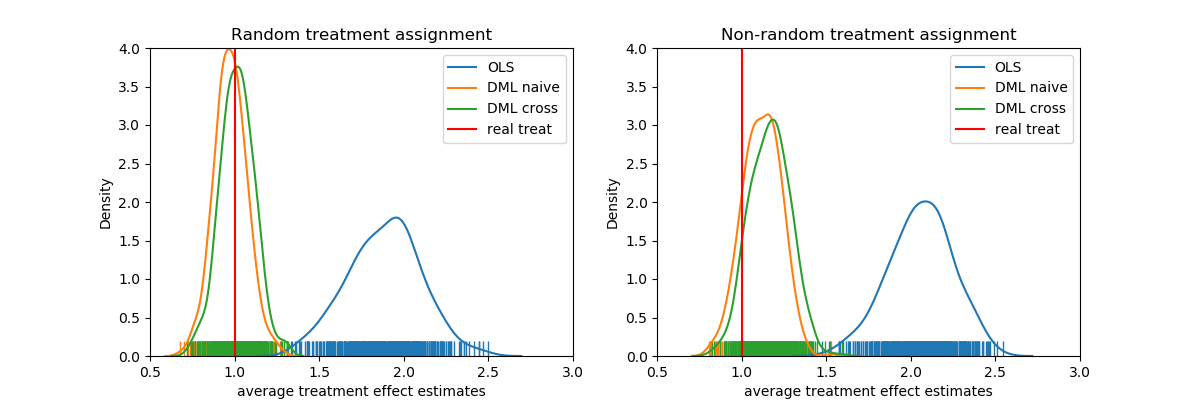
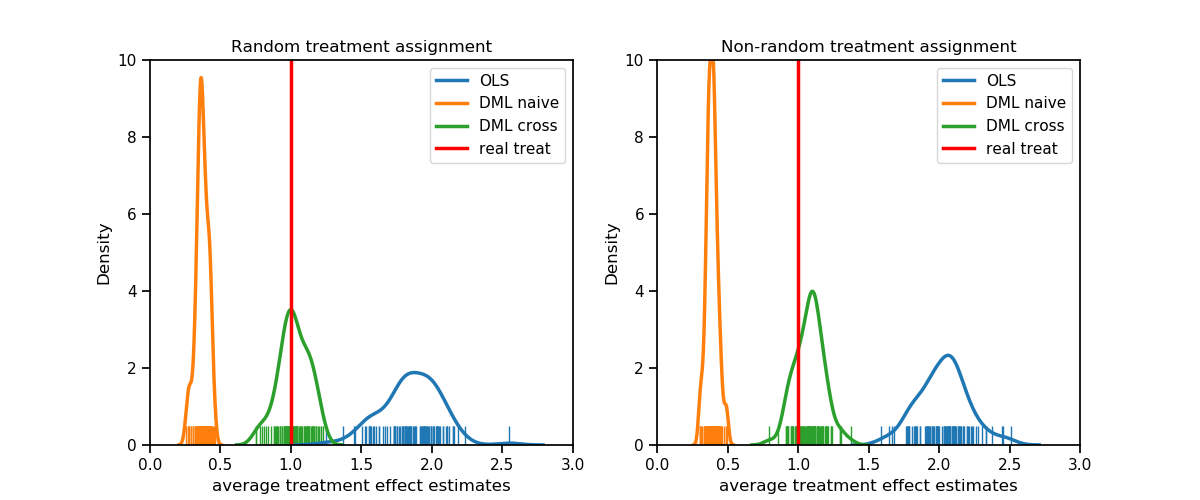
changed dml plot, adjusted text

diff --git a/content/research/applied_predictive_modeling_19/data_generating_process_blogpost.html b/content/research/applied_predictive_modeling_19/data_generating_process_blogpost.html
@@ -92,7 +92,7 @@ scientific approaches.</p>
 <div class="cell border-box-sizing text_cell rendered"><div class="prompt input_prompt">
 </div><div class="inner_cell">
 <div class="text_cell_render border-box-sizing rendered_html">
-<h3 id="General-Model:-Partial-Linear-Regression">General Model: Partial Linear Regression<a class="anchor-link" href="#General-Model:-Partial-Linear-Regression">&#182;</a></h3><p>The model that our package is based on is a partial linear regression model as it is described in Chernozhukov et al. (2016). It consists of the covariates X that are possibly non-linear in relation to y, the treatment term consisting the treatment effect and the treatment assginment vector and an normally distributed error term.</p>
+<h3 id="General-Model:-Partial-Linear-Regression">General Model: Partial Linear Regression<a class="anchor-link" href="#General-Model:-Partial-Linear-Regression">&#182;</a></h3><p>The model that our package is based on is a partial linear regression model as it is described in Chernozhukov et al. (2016). It consists of the covariates X that are possibly non-linear in relation to y, the treatment term consisting of the treatment effect and the treatment assignment vector, and a normally distributed error term.</p>
 <p><br/></p>
 $$ \begin{align} Y = \theta_0  D + g_0(X)+ U,  &amp;&amp;  &amp; E[U|X,D] = 0 \\ 
    D = m_0(X) + V, &amp;&amp;   &amp;  E[V|X] = 0 \\
@@ -116,7 +116,8 @@ $$ X_{n*k} \sim N_k(0,\Sigma)$$<p>Where,</p>
 <script src="https://gist.github.com/Tobias-K93/f550c942f3ceea379271c9d89913fac7.js"></script><p>The following heat-map shows an example of Sigma with k=10 covariates. Depending on the chosen random seed, typically correlations range between -0.7 and 0.7 with slightly varying minimum and maximum values.</p>
 <p><img align="center" width="660" height="500" style="display:block;margin:0 auto;" src="/blog/img/seminar/data_generating_process/covariates_correlation.png"></p>
 <h4 id="Binary-and-categorical-covariates">Binary and categorical covariates<a class="anchor-link" href="#Binary-and-categorical-covariates">&#182;</a></h4><p>Binary and categorical covariates are created by transforming the continuous covariates $X$. Depending on what option is chosen, the package simulates all covariates or a subset of $X$ as binary and/or categorical. The covariates are transformed by min-max-standardization to obtain prediction values. These values are then used to either obtain binary realizations from a Bernoulli distribution or categorical covariates by summing up the realizations of several Bernoulli draws.</p>
-$$ p_{j} = \frac{x(j) - min(x(j))}{max(x(j)) - min(x(j))} $$$$ x_{binary}(j) = Bernoulli\left( p_{j} \right) $$$$ x_{categorical}(j) = \sum_{c=1}^{C-1} Bernoulli_c \left( p_{j} \right) $$<p>$x(j) \in X = covariate\; vector, \quad C = number\; of\; categories$</p>
+$$ p_{j} = \frac{x(j) - min(x(j))}{max(x(j)) - min(x(j))} $$$$ x_{binary}(j) = Bernoulli\left( p_{j} \right) $$$$ x_{categorical}(j) = \sum_{c=1}^{C-1} Bernoulli_c \left( p_{j} \right) $$<p>Where,</p>
+<p>$x(j) \in X = covariate\; vector, \quad j \in \{1,...,k\}, \quad C = number\; of\; categories $</p>
 <p><br/></p>
 <p>The following code serves as an example of how binary and categorical covariates are implemented. In this example, the user chooses how many covariates are transformed and gives a list of categories that should be included, e.g. [2,5] for binary and categorical variables with 5 categories.</p>
 <script src="https://gist.github.com/Tobias-K93/c9d325e584421595ed1b012fe090d6fc.js"></script>
@@ -147,7 +148,7 @@ $. These effects are: Positive constant, negative constant , positive heterogene
 <h4 id="Positive-&amp;-negative-constant-effect">Positive &amp; negative constant effect<a class="anchor-link" href="#Positive-&amp;-negative-constant-effect">&#182;</a></h4><p>In the case of a constant effect, treatment is the same for each individual and, thus, is just a constant $c$. Depending on the chosen sign either positive or negative.</p>
 <p><strong>Option 1</strong> positive constant: $$ \theta_0 = c $$</p>
 <p><strong>Option 2</strong> negative constant: $$\theta_0 = - \; c$$</p>
-<h4 id="Positive-&amp;-negative-continuous-heterogeneous-effect">Positive &amp; negative continuous heterogeneous effect<a class="anchor-link" href="#Positive-&amp;-negative-continuous-heterogeneous-effect">&#182;</a></h4><p>In contrast to the constant effect, for which each observation has the same treatment effect, the continuous heterogeneous effect differs between individuals within a specified interval. Moreover, depends the size of the individual treatment effect on a subset Z of the covariates X. The creation of this treatment effect begins similar to the treatment assignment with taking the dot product of the subset $Z$ and the same weight vector used in the treatment assignment $b$. The result is put into a sinus function and added an normally distributed error term $W$. The result $\gamma$ is then min-max-standardized and adjusted in size with a constant $c$. Note that eventually the size of treatment depends on the intensity chosen which will be explained later on in the application part. In case that the heterogeneous effect is supposed to be partly or entirely negative, the resulting distribution is shifted by the respective quantile value $q_{neg}$ that corresponds to the wanted negative percentage share.</p>
+<h4 id="Positive-&amp;-negative-continuous-heterogeneous-effect">Positive &amp; negative continuous heterogeneous effect<a class="anchor-link" href="#Positive-&amp;-negative-continuous-heterogeneous-effect">&#182;</a></h4><p>In contrast to the constant effect, for which each observation has the same treatment effect, the continuous heterogeneous effect differs between individuals within a specified interval. Moreover, depends the size of the individual treatment effect on a subset Z of the covariates X. The creation of this treatment effect begins similar to the treatment assignment with taking the dot product of the subset $Z$ and the same weight vector used in the treatment assignment $b$. The result is put into a sinus function and a normally distributed error term $W$ is added. The result $\gamma$ is then min-max-standardized and adjusted in size with a constant $c$. Note that eventually the size of treatment depends on the intensity chosen which will be explained later on in the <em>Package application</em> part. In case that the heterogeneous effect is supposed to be partly or entirely negative, the resulting distribution is shifted by the respective quantile value $q_{neg}$ that corresponds to the wanted negative percentage share.</p>
 <p><br/></p>
 $$\gamma =  sin(Z * b) + W$$$$\theta_0 = \frac{\gamma - min(\gamma)}{max(\gamma) - min(\gamma)}*c - q_{neg}$$<p>Where,</p>
 <p>$Z \subseteq X,\quad  b_{k*1} \stackrel{ind.}{\sim} U(0,1), \quad W \stackrel{ind.}{\sim} N(0,1), \quad q_{neg} \in [0,c], \quad c = size \; adjustment \; parameter$</p>
@@ -155,7 +156,7 @@ $$\gamma =  sin(Z * b) + W$$$$\theta_0 = \frac{\gamma - min(\gamma)}{max(\gamma)
 <script src="https://gist.github.com/Tobias-K93/80c8db186625da23d99caebf1bbfc913.js"></script><p>The following histogram shows an example where 30% of the continuous heterogeneous treatment effect is negative and 70% is positive.</p>
 <p><img align="center" width="500" height="400" style="display:block;margin:0 auto;" src="/blog/img/seminar/data_generating_process/pos_neg_heterogeneous_treatment_effect.png"></p>
 <h4 id="No-effect">No effect<a class="anchor-link" href="#No-effect">&#182;</a></h4><p>This option allows that there are cases of treatment assignment that show no effect, i.e. $\theta_0$ is simply 0.</p>
-$$\theta_0 = 0$$<h4 id="Discrete-heterogeneous-treatment-effect">Discrete heterogeneous treatment effect<a class="anchor-link" href="#Discrete-heterogeneous-treatment-effect">&#182;</a></h4><p>The discrete heterogeneous treatment effect is created in a similar manner as the continuous version. The scalar product of a subset of the covariates is put into a sinus function and the result is min-max-standardized to serve as probability. In another step, those probabilities are used to draw values from a Bernoulli distribution, where 0's are exchanged with the lower value and 1's with the higher value of the new treatment effect. The resulting treatment effect depends then on at least a subset of the covariates.</p>
+$$\theta_0 = 0$$<h4 id="Discrete-heterogeneous-treatment-effect">Discrete heterogeneous treatment effect<a class="anchor-link" href="#Discrete-heterogeneous-treatment-effect">&#182;</a></h4><p>The discrete heterogeneous treatment effect is created in a similar manner as the continuous version. The scalar product of a subset of the covariates is put into a sinus function and the result is min-max-standardized to serve as probability. In another step, those probabilities are used to draw values from a Bernoulli distribution, where 0's are exchanged with the lower value and 1's with the higher value of the new treatment effect. The resulting treatment effect depends then on a subset of covariates.</p>
 $$\gamma =  sin(Z * b)$$$$ p_{dh} = \frac{\gamma - min(\gamma)}{max(\gamma) - min(\gamma)}$$$$ \theta_0 \sim Bernoulli(p_{dh}), \; \theta_0 \in \{0.1*c , 0.2*c\}$$
 </div>
 </div>
@@ -163,7 +164,7 @@ $$\gamma =  sin(Z * b)$$$$ p_{dh} = \frac{\gamma - min(\gamma)}{max(\gamma) - mi
 <div class="cell border-box-sizing text_cell rendered"><div class="prompt input_prompt">
 </div><div class="inner_cell">
 <div class="text_cell_render border-box-sizing rendered_html">
-<h3 id="Output-variable">Output variable<a class="anchor-link" href="#Output-variable">&#182;</a></h3><h4 id="Continuous">Continuous<a class="anchor-link" href="#Continuous">&#182;</a></h4><p>The continuous output variable $Y$ comprises of three main parts. The treatment part $\theta_0 D $ as explained above, the possibly non-linearly transformed covariates $X$, and the error term $U$. The transformation $g_0()$ consists of two parts. First, the scalar product of $X$ and the weighting vector $b$ is taken. The values of $b$ are drawn from an uneven beta distribution which assures that a few covariates impact the outcome much more than others which seems more realistic than e.g. a uniformly distributed impact. Second, there is either no further transformation, i.e. the relation is linear, a partial non-linear transformation which consists of a linear and non-linear part, or an entirely non-linear transformation. Moreover, the package offers an option to add interaction terms of the form $x_i*x_j$ that are drawn randomly out of $X$ and added into $g_0()$. The number of interaction terms $I$ is set to $\sqrt{k}$ as a default and can be adjusted if wanted.</p>
+<h3 id="Output-variable">Output variable<a class="anchor-link" href="#Output-variable">&#182;</a></h3><h4 id="Continuous">Continuous<a class="anchor-link" href="#Continuous">&#182;</a></h4><p>The continuous output variable $Y$ comprises of three main parts. The treatment part $\theta_0 D $ as explained above, the possibly non-linearly transformed covariates $X$, and the error term $U$. The transformation $g_0()$ consists of two parts. First, the dot product of $X$ and the weighting vector $b$ is taken. The values of $b$ are drawn from an uneven beta distribution which assures that a few covariates impact the outcome much more than others which seems more realistic than e.g. a uniformly distributed impact. Second, there is either no further transformation, i.e. the relation is linear, a partial non-linear transformation which consists of a linear and non-linear part, or an entirely non-linear transformation. Moreover, the package offers an option to add interaction terms of the form $x_i*x_j$ that are drawn randomly out of $X$ and added into $g_0()$. The number of interaction terms $I$ is set to $\sqrt{k}$ as a default and can be adjusted if wanted.</p>
 <p><br/></p>
 $$ Y = \theta_0  D + g_0(X)+ U, \quad E[U|X,D] = 0$$<p>where,</p>
 <p>$g_0(x) \in  \{x, \; \; 2.5*cos(x)^3 + 0.5*x, \; \; 3*cos(x)^3\}, \qquad x \in \{X_{n*k}*b_{k*1}, \quad X_{n*k}*b_{k*1} + X_{in,n*I}*b_{in,I*1} \},$</p>
@@ -189,18 +190,20 @@ $$ p_{n*1} = \frac{\delta - min(\delta)}{max(\delta) - min(\delta)}*0.8 + 0.1 + 
 <div class="cell border-box-sizing text_cell rendered"><div class="prompt input_prompt">
 </div><div class="inner_cell">
 <div class="text_cell_render border-box-sizing rendered_html">
-<h2 id="Package-application">Package application<a class="anchor-link" href="#Package-application">&#182;</a></h2><p>The package is applied by simply importing the <code>UserInterface</code>, initializing it, and using the two main methods <code>generate_treatment</code> and <code>output_data</code> as shown in the code below. The only required parameters the user has to choose are the number of observations N and the number of covariates k. All other parameters have default values that can be changed if needed. The following code gives all necessary lines to create a dataset and has all default values listed.</p>
+<h2 id="Package-application">Package application<a class="anchor-link" href="#Package-application">&#182;</a></h2><p><code>opossum</code> can be used by either downloading the Github repository <a href="https://github.com/jgitr/opossum">https://github.com/jgitr/opossum</a> and using the opossum directory as working directory or by simply installing it with the following command from the console:</p>
+<p><code>pip install opossum</code></p>
+<p>The package is applied by simply importing the <code>UserInterface</code>, initializing it, and using the two main methods <code>generate_treatment</code> and <code>output_data</code> as shown in the code below. The only required parameters the user has to choose are the number of observations N and the number of covariates k. All other parameters have default values that can be changed if needed. The following code gives all necessary lines to create a dataset and has all default values listed. How values can be adjusted will be explained in the following sections.</p>
 <script src="https://gist.github.com/Tobias-K93/72319f8e5b96190d1fdadbe1a1cedd59.js"></script><h3 id="Choosing-covariates">Choosing covariates<a class="anchor-link" href="#Choosing-covariates">&#182;</a></h3><p>As a default, covariates are continuous. However, one can change that with the <code>categorical_covariates</code> parameter. It allows to make either all or a chosen number of covariates binary and/or categorical. Depending on how covariates should be transformed there are three options. Option one is to simply give an integer $i$ which then transforms the whole dataset into variables with i categories, e.g. $i$ = 2 makes all covariates binary. Option two is a list with two integers $[z,i]$, where the first one $z$ is the number of variables that are transformed, and the second one $i$ is again the number of categories, e.g. <code>[5,2]</code> generates 5 of all k covariates as binary variables. Option three is again a list but this time contains an integer and a list $[z,[i_1,..i_C]]$. As before, the first integer $z$ gives the number of covariates that are transformed, whereas the integers in the list $[i_1,...i_C]$ give the different frequencies of categories that are then equally common among the transformed covariates. As an example, <code>[10,[2,3,5]]</code> would lead to 10 transformed covariates of which four would be binary and three would have 3 and 5 categories respectively.</p>
-<script src="https://gist.github.com/Tobias-K93/02d7c3b424f19a894fcbab69775247e8.js"></script><h3 id="Creating-treatment-effects">Creating treatment effects<a class="anchor-link" href="#Creating-treatment-effects">&#182;</a></h3><p>The <code>generate_treatment()</code> function has two main purposes. Assigning treatment and generating the chosen treatment effects. As a default treatment is assigned randomly as in a random control trial, i.e. the <code>random_assignment</code> boolean parameter is set to <code>True</code>. Setting it to <code>False</code> makes treatment depending on a subset of covariates, simulating an observational study. The size of this subset is set to k/2 by default but can be adjusted with the function <code>set_subset_z_size_assignment()</code> that is further explained under the point Other functions below. The other parameter concerning assignment is <code>assignment_prob</code> which affects the average probability of treatment assignment, determining how many observations end up being treated. In the case of random assignment, parameter values can be freely chosen from the interval (0,1), however, when assignment is not random one has to choose between the three levels <code>'low'</code>, <code>'medium'</code>, and <code>'high'</code> which represent average probability values of 0.35, 0.5, and 0.65 respectively.</p>
+<script src="https://gist.github.com/Tobias-K93/02d7c3b424f19a894fcbab69775247e8.js"></script><h3 id="Creating-treatment-effects">Creating treatment effects<a class="anchor-link" href="#Creating-treatment-effects">&#182;</a></h3><p>The <code>generate_treatment()</code> function has two main purposes. Assigning treatment and generating the chosen treatment effects. As a default treatment is assigned randomly as in a random control trial, i.e. the <code>random_assignment</code> boolean parameter is set to <code>True</code>. Setting it to <code>False</code> makes treatment depending on a subset of covariates, simulating an observational study. The size of this subset is set to k/2 by default but can be adjusted with the function <code>set_subset_z_size_assignment()</code> that is further explained under the point <em>Other functions</em> below. The other parameter concerning assignment is <code>assignment_prob</code> which affects the average probability of treatment assignment, determining how many observations end up being treated. In the case of random assignment, parameter values can be freely chosen from the interval (0,1), however, when assignment is not random one has to choose between the three levels <code>'low'</code>, <code>'medium'</code>, and <code>'high'</code> which represent average probability values of 0.35, 0.5, and 0.65 respectively.</p>
 <p>Regarding the creation of treatment effects there are two ways on how to choose which kind of effects should be simulated. Either by setting the wanted parameters to <code>True</code> and unwanted to <code>False</code>, where the default is <code>constant_pos=True</code> and all other options False, or by passing a list of length 6 to <code>treatment_option_weights</code> containing the wanted percentages of treatment effect options that sum up to 1. If the first way, using booleans, is chosen then the frequency of each selected option is the same. This option is the easiest way to use when just one kind of effect is wanted. The second option, passing a list, offers a better way of customizing the wanted mix of treatment effects. Each value in the list corresponds to a kind of treatment effect the following way <code>[constant_pos, constant_neg, heterogeneous_pos, heterogeneous_neg, no_treatment, discrete_heterogeneous]</code>, e.g. <code>[0, 0, 0.8, 0.2, 0, 0]</code> generates 20% negative heterogeneous treatment and 80% positive heterogeneous treatment.</p>
 <p>The following code shows the application of the above discussed parameters. All parameters that are not shown are automatically set to their default values.</p>
-<script src="https://gist.github.com/Tobias-K93/c07617c63231c9e0a76886ac49d273a9.js"></script><p>The intensity parameter adjusts the size of treatment effects. It takes floats of the interval [1,10] which determine the magnitude of the treatment effects the following way:</p>
+<script src="https://gist.github.com/Tobias-K93/c07617c63231c9e0a76886ac49d273a9.js"></script><p>The intensity parameter adjusts the size of treatment effects. It takes a float from the interval [1,10] which determines the magnitude of the treatment effects the following way:</p>
 <ul>
 <li>$constant: \; intensity*0.2$, </li>
 <li>$heterogeneous: \; [0, intensity*0.4]$, </li>
 <li>$discrete\_heterogeneous: \{intensity*0.1, intensity*0.2\}$</li>
 </ul>
-<p>The interactive plot bellow shows different resulting magnitudes of the treatment effect as part of the outcome variable y in form of a kernal density estimation. Change the intensity value to see how it affects the outcome distributions of treated and not treated observations!</p>
+<p>The interactive plot bellow shows different resulting magnitudes of the treatment effect as part of the outcome variable y in form of a kernel density estimation. Just press the <em>Show widgets</em> button, wait a few seconds, and change the intensity value to see how it affects the outcome distributions of treated and not treated observations!</p>
 
 </div>
 </div>
@@ -292,8 +295,8 @@ $$ p_{n*1} = \frac{\delta - min(\delta)}{max(\delta) - min(\delta)}*0.8 + 0.1 + 
 <div class="cell border-box-sizing text_cell rendered"><div class="prompt input_prompt">
 </div><div class="inner_cell">
 <div class="text_cell_render border-box-sizing rendered_html">
-<h3 id="Creating-output">Creating output<a class="anchor-link" href="#Creating-output">&#182;</a></h3><p>The second main functions is <code>output_data()</code> which internally creates the output variable y and returns a tuple including the 4 numpy arrays of interest. In the sample code below denoted as <code>y</code> is the array of size N with the output variable values, <code>X</code> is an array of size N*k consisting of the simulated covariates, <code>assignment</code> is an array of length N consisting of zeros and ones, and <code>treatment</code> is an array of length N consisting of the realized treatment effect values.</p>
-<p>The function provides two parameters that can be adjusted. <code>binary</code> simply allows to change the output variable y from continuous to binary while the default is <code>False</code> which makes y continuous. <code>x_y_relation</code> defines the relationship of y and X that is used offering 6 different options one can choose: <code>'linear_simple'</code>, <code>'linear_interaction'</code>, <code>'partial_nonlinear_simple'</code>, <code>'partial_nonlinear_interaction'</code>, <code>'nonlinear_simple'</code>, <code>'nonlinear_interaction'</code>. For more information about the implications of each option see part <em>3.5 Output variable</em>.</p>
+<h3 id="Creating-output">Creating output<a class="anchor-link" href="#Creating-output">&#182;</a></h3><p>The second main function is <code>output_data()</code> which internally creates the output variable y and returns a tuple including the 4 numpy arrays of interest. In the sample code below denoted as <code>y</code> is the array of size N with the output variable values, <code>X</code> is an array of size $N*k$ consisting of the simulated covariates, <code>assignment</code> is an array of length N consisting of zeros and ones, and <code>treatment</code> is an array of length N consisting of the realized treatment effect values.</p>
+<p>The function provides two parameters that can be adjusted. <code>binary</code> simply allows to change the output variable y from continuous to binary while the default is <code>False</code> which makes y continuous. <code>x_y_relation</code> defines the relationship of y and X that is used offering 6 different options one can choose from: <code>'linear_simple'</code>, <code>'linear_interaction'</code>, <code>'partial_nonlinear_simple'</code>, <code>'partial_nonlinear_interaction'</code>, <code>'nonlinear_simple'</code>, <code>'nonlinear_interaction'</code>. For more information about the implications of each option see part <em>3.5 Output variable</em>.</p>
 <script src="https://gist.github.com/Tobias-K93/a9e602687253fa3c3e60810b9810ffa4.js"></script><p>In the drop down menu below you can choose between the different options of <code>x_y_relation</code> and get a scatter plot of the combined X and, if the interaction version is chosen, interaction terms of X plotted on the y values. The underlying dataset is created with N=10000 observations and k=50 covariates.</p>
 
 </div>
@@ -370,8 +373,9 @@ $$ p_{n*1} = \frac{\delta - min(\delta)}{max(\delta) - min(\delta)}*0.8 + 0.1 + 
 <p><code>set_weights_treatment_assignment(new_weight_vector)</code></p>
 <p><code>set_weights_covariates_to_outputs(new_weight_vector)</code></p>
 <p><code>set_subset_z_size_assignment(new_size)</code></p>
-<p><code>set_subset_z_size_treatment</code></p>
+<p><code>set_subset_z_size_treatment(new_size)</code></p>
 <p><code>set_interaction_num(new_num)</code></p>
+<p>It is important that functions are used before or after necessary instances are created. While covariates can be plotted after the UserInterface object was created, propensity scores can first be extracted after treatment was assigned. In the same manner should values like the size of the subset Z that is used for assignment or treatment be changed <strong>before</strong> treatment is generated. All these functions are class methods, which means they need to be called from the created UserInterface object as it is the case with the main functions shown above, e.g. <code>u.plot_covariates_correlation()</code></p>
 
 </div>
 </div>
@@ -382,20 +386,12 @@ $$ p_{n*1} = \frac{\delta - min(\delta)}{max(\delta) - min(\delta)}*0.8 + 0.1 + 
 <h2 id="Example:-Applying-double-machine-learning">Example: Applying double machine learning<a class="anchor-link" href="#Example:-Applying-double-machine-learning">&#182;</a></h2><p>In the following we present a show case on how to use our proposed data generator.
 As mentioned before, the double machine learning framework of Chernozhukov et al., applied on Robinson's partial
 linear model, deals with the problem of biased parameter estimates (e.g. treatment effect)
-due to high dimensionality.
-(for detailed info link the double ml blog post)
-Hence we demonstrate the performance of three different parameter estimators.
-The employed models are an Ordinary Least Squares Regression,
+due to high dimensionality. To get more information about the method have a look at Chernozhukov's paper or the following blog entry <a href="http://aeturrell.com/2018/02/10/econometrics-in-python-partI-ML/">http://aeturrell.com/2018/02/10/econometrics-in-python-partI-ML/</a> which inspired this example application of our package.</p>
+<p>We demonstrate the performance of three different parameter estimators. The employed models are an Ordinary Least Squares Regression,
 a naive Double-ML Random Forest and another Double-ML model in a cross-fitted version.</p>
-<p>By design the true parameter Theta is known to be 1. Densities are reported as follows:</p>
-<p><img align="center" width="850" height="350" style="display:block;margin:0 auto;" src="/blog/img/seminar/data_generating_process/dml_estimator_distribution.png"></p>
-<p>Where the first plot depicts the result of randomly assigned treatment and the second
-one uses non-random assignment. While the OLS estimator has a strong bias due to
-the non-linearity of the underlying dataset, one can clearly see the difference
-in the accuracy of the Double-ML models.
-In case of random assignment, cross-fitted Double-ML as well as the naive approach
-correctly identify the 'unknown' parameter. However, when switching to non-random assignment,
-the performance of the naive model quickly deteriorates.</p>
+<p>By design the true parameter Theta is known to be 1. The datasets were created with N=1000, k=50 and simulated 100 times, once with random treatment assignment and once with assignment depending on covariates. As machine learning model a random forest regressor with default values was used. Scripts of this simulation can be found in the opossum GitHub repository. Densities are reported as follows:</p>
+<p><img align="center" width="850" height="300" style="display:block;margin:0 auto;" src="/blog/img/seminar/data_generating_process/dml_estimator_distribution.png"></p>
+<p>Both plots show that OLS as well as the naive estimator are obviously biased, while the bias of OLS is stronger. In the random assignment case the cross fit double machine learning estimator on the other side meets on average Theta perfectly and even in the non-random assignment it is still close the the true value compared to the other two alternatives.</p>
 
 </div>
 </div>
